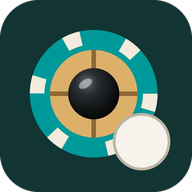
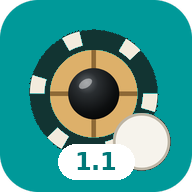
v1.44 V1.1 새 아이콘
Claude-Session: https://claude.ai/code/session_017jDQYyfqwjzrjeTw8Y2gKp

diff --git a/index.html b/index.html
@@ -1892,7 +1892,7 @@ img,svg,a{-webkit-user-drag:none}
 <div id="dlg" class="hide"></div>
 <div id="toast" role="status"></div>
 
-<script>window.BO_VER='1.43';window.BO_FIREBASE_CONFIG={"apiKey": "AIzaSyDvsab_8P_Bf_Sr4OZrvFQDF7TPfKoTQck", "authDomain": "betting-omok-5e0c2.firebaseapp.com", "projectId": "betting-omok-5e0c2", "storageBucket": "betting-omok-5e0c2.firebasestorage.app", "messagingSenderId": "1058641815494", "appId": "1:1058641815494:web:c32dccf8188df54b69b4c7"};(()=>{let res;const p=new Promise(r=>res=r);window.__BO_FB={resolve:res};window.claude={use:n=>p.then(x=>x[n]||null)}})();</script>
+<script>window.BO_VER='1.44';window.BO_FIREBASE_CONFIG={"apiKey": "AIzaSyDvsab_8P_Bf_Sr4OZrvFQDF7TPfKoTQck", "authDomain": "betting-omok-5e0c2.firebaseapp.com", "projectId": "betting-omok-5e0c2", "storageBucket": "betting-omok-5e0c2.firebasestorage.app", "messagingSenderId": "1058641815494", "appId": "1:1058641815494:web:c32dccf8188df54b69b4c7"};(()=>{let res;const p=new Promise(r=>res=r);window.__BO_FB={resolve:res};window.claude={use:n=>p.then(x=>x[n]||null)}})();</script>
 <script>// 베팅 오목 — Firebase 연결 어댑터(웹·어플 버전 전용, claude.ai 아티팩트에는 넣지 않음)
 // window.claude.use('db'|'user'|'room')를 같은 모양으로 Firebase(익명 로그인 + Firestore)에 연결한다.
 (async()=>{

diff --git a/sw.js b/sw.js
@@ -1,5 +1,5 @@
-// 베팅 오목 서비스 워커 (버전 1.43)
-const C='bo-1.43';
+// 베팅 오목 서비스 워커 (버전 1.44)
+const C='bo-1.44';
 self.addEventListener('install',e=>{self.skipWaiting();e.waitUntil(caches.open(C).then(c=>c.addAll(['./','index.html','manifest.json','icons/icon-192.png']).catch(()=>{})))});
 self.addEventListener('activate',e=>e.waitUntil(caches.keys().then(ks=>Promise.all(ks.filter(k=>k!==C).map(k=>caches.delete(k)))).then(()=>self.clients.claim())));
 self.addEventListener('fetch',e=>{const u=new URL(e.request.url);
